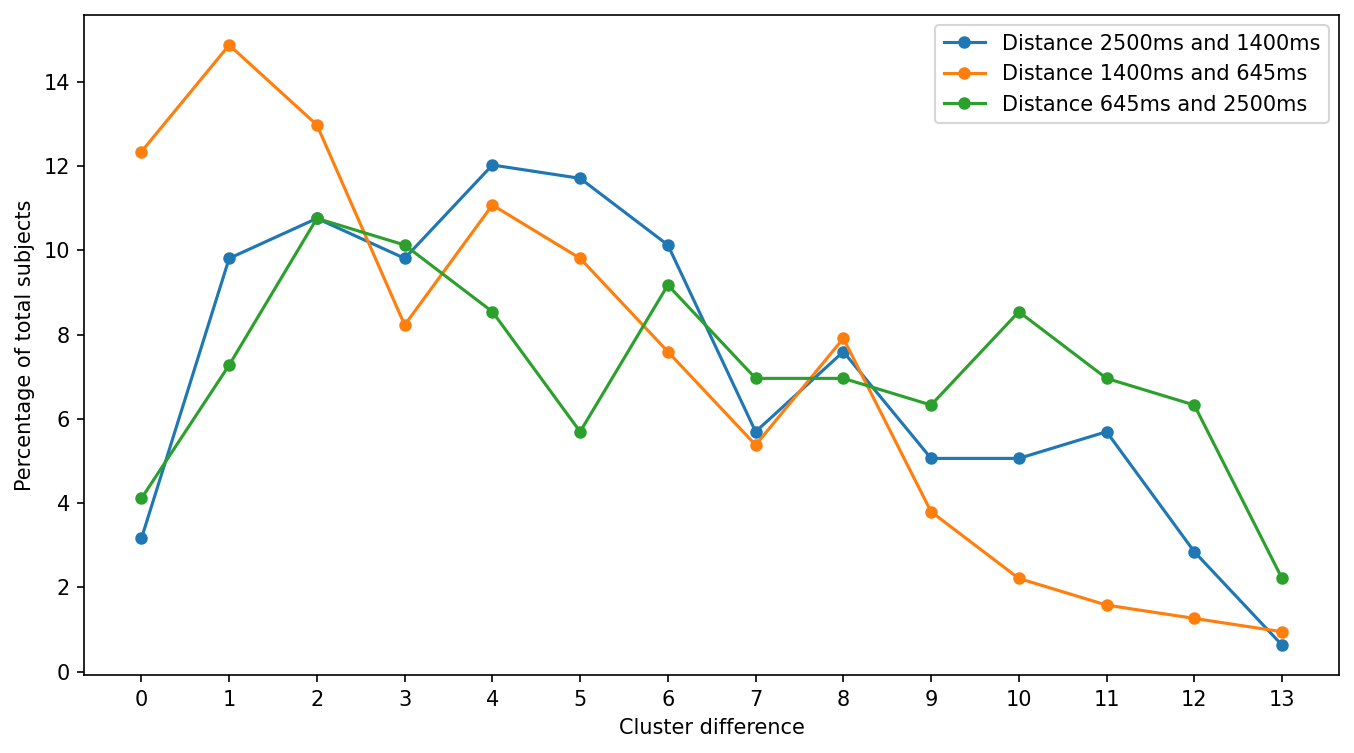
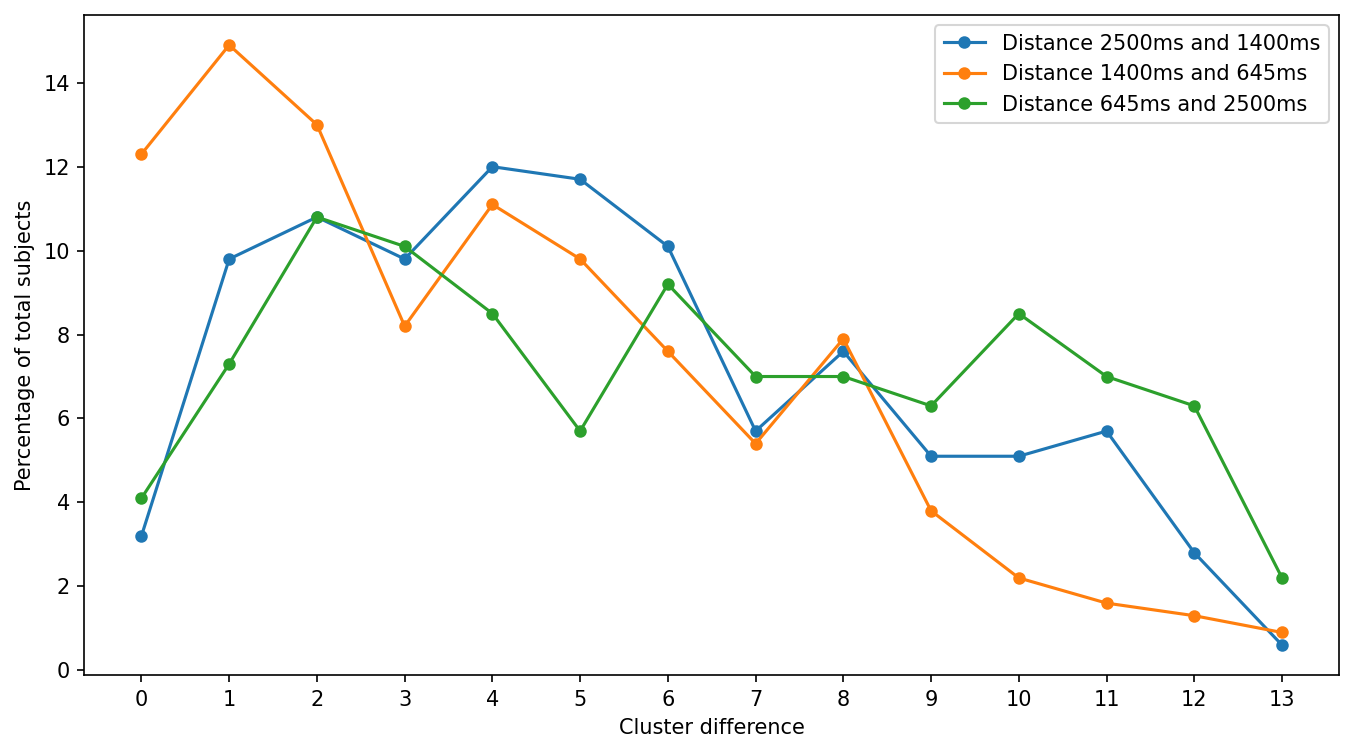
updated line charts to show one digit after decimal point

diff --git a/graph_generation.py b/graph_generation.py
@@ -76,12 +76,17 @@ def draw_barcode_only(data):
     print(f"Chart exported to: {output_filename}")
 
 
+def round_values(datasets, decimal_point=1):
+    return [[round(i, decimal_point) for i in ar] for ar in datasets]
+
+
 def draw_line_chart(datasets, dataset_titles,
                     x_label=None,
                     y_label=None,
                     title=None, figure_path=None, limit_y=None,
                     show_text_label=True,
                     log_scale=False):
+    datasets = round_values(datasets)
     fig, ax = plt.subplots(figsize=(8, 4))
     x = list(range(len(datasets[0])))
     for i in range(len(datasets)):
@@ -115,27 +120,32 @@ def draw_line_chart(datasets, dataset_titles,
 
 def show_pairwise_2500_1400():
     distance_2500_1400 = [
-        54.43, 14.873, 5.696, 5.38, 6.329, 2.532, 0.949, 2.532, 1.899, 1.582, 1.266, 0.316, 0.949, 1.266
+        54.43, 14.873, 5.696, 5.38, 6.329, 2.532, 0.949, 2.532, 1.899, 1.582,
+        1.266, 0.316, 0.949, 1.266
     ]
     distance_2500_1400_title = "Distance 2500ms and 1400ms (TDA)"
     distance_2500_1400_nontda = [
-        3.165, 9.81, 10.759, 9.81, 12.025, 11.709, 10.127, 5.696, 7.595, 5.063, 5.063, 5.696, 2.848, 0.633
+        3.165, 9.81, 10.759, 9.81, 12.025, 11.709, 10.127, 5.696, 7.595, 5.063,
+        5.063, 5.696, 2.848, 0.633
     ]
     distance_2500_1400_nontda_title = "Distance 2500ms and 1400ms (nonTDA)"
     x_label = "Cluster difference"
     y_label = "Percentage of total subjects"
     draw_line_chart([distance_2500_1400, distance_2500_1400_nontda],
-                    [distance_2500_1400_title, distance_2500_1400_nontda_title],
+                    [distance_2500_1400_title,
+                     distance_2500_1400_nontda_title],
                     x_label, y_label,
                     figure_path="drawing/pairwise_2500_1400.png")
 
 
 def show_pairwise_1400_645():
     distance_1400_645 = [
-        55.696, 19.304, 3.797, 3.481, 2.848, 2.848, 2.532, 1.899, 0.949, 2.215, 0.949, 1.582, 0.949, 0.949
+        55.696, 19.304, 3.797, 3.481, 2.848, 2.848, 2.532, 1.899, 0.949, 2.215,
+        0.949, 1.582, 0.949, 0.949
     ]
     distance_1400_645_title = "Distance 1400ms and 645ms (TDA)"
-    distance_1400_645_nontda = [12.342, 14.873, 12.975, 8.228, 11.076, 9.810, 7.595, 5.380, 7.911, 3.797, 2.215, 1.582,
+    distance_1400_645_nontda = [12.342, 14.873, 12.975, 8.228, 11.076, 9.810,
+                                7.595, 5.380, 7.911, 3.797, 2.215, 1.582,
                                 1.266, 0.949]
     distance_1400_645_nontda_title = "Distance 1400ms and 645ms (nonTDA)"
     x_label = "Cluster difference"
@@ -143,15 +153,18 @@ def show_pairwise_1400_645():
     draw_line_chart([distance_1400_645, distance_1400_645_nontda],
                     [distance_1400_645_title, distance_1400_645_nontda_title],
                     x_label, y_label,
-                    figure_path="drawing/pairwise_1400_645.png", log_scale=False)
+                    figure_path="drawing/pairwise_1400_645.png",
+                    log_scale=False)
 
 
 def show_pairwise_645_2500():
     distance_645_2500 = [
-        50.633, 20.570, 6.013, 2.532, 5.380, 3.165, 1.582, 2.848, 1.582, 0.949, 1.266, 0.949, 1.899, 0.633
+        50.633, 20.570, 6.013, 2.532, 5.380, 3.165, 1.582, 2.848, 1.582, 0.949,
+        1.266, 0.949, 1.899, 0.633
     ]
     distance_645_2500_title = "Distance 645ms and 2500ms (TDA)"
-    distance_645_2500_nontda = [4.114, 7.278, 10.759, 10.127, 8.544, 5.696, 9.177, 6.962, 6.962, 6.329, 8.544, 6.962,
+    distance_645_2500_nontda = [4.114, 7.278, 10.759, 10.127, 8.544, 5.696,
+                                9.177, 6.962, 6.962, 6.329, 8.544, 6.962,
                                 6.329, 2.215]
     distance_645_2500_nontda_title = "Distance 645ms and 2500ms (nonTDA)"
 
@@ -165,49 +178,63 @@ def show_pairwise_645_2500():
 
 def show_tda_pairwise():
     distance_2500_1400 = [
-        54.43, 14.873, 5.696, 5.38, 6.329, 2.532, 0.949, 2.532, 1.899, 1.582, 1.266, 0.316, 0.949, 1.266
+        54.43, 14.873, 5.696, 5.38, 6.329, 2.532, 0.949, 2.532, 1.899, 1.582,
+        1.266, 0.316, 0.949, 1.266
     ]
     distance_2500_1400_title = "Distance 2500ms and 1400ms"
     distance_1400_645 = [
-        55.696, 19.304, 3.797, 3.481, 2.848, 2.848, 2.532, 1.899, 0.949, 2.215, 0.949, 1.582, 0.949, 0.949
+        55.696, 19.304, 3.797, 3.481, 2.848, 2.848, 2.532, 1.899, 0.949, 2.215,
+        0.949, 1.582, 0.949, 0.949
     ]
     distance_1400_645_title = "Distance 1400ms and 645ms"
     distance_645_2500 = [
-        50.633, 20.570, 6.013, 2.532, 5.380, 3.165, 1.582, 2.848, 1.582, 0.949, 1.266, 0.949, 1.899, 0.633
+        50.633, 20.570, 6.013, 2.532, 5.380, 3.165, 1.582, 2.848, 1.582, 0.949,
+        1.266, 0.949, 1.899, 0.633
     ]
     distance_645_2500_title = "Distance 645ms and 2500ms"
 
     x_label = "Cluster difference"
     y_label = "Percentage of total subjects"
     draw_line_chart([distance_2500_1400, distance_1400_645, distance_645_2500],
-                    [distance_2500_1400_title, distance_1400_645_title, distance_645_2500_title],
+                    [distance_2500_1400_title, distance_1400_645_title,
+                     distance_645_2500_title],
                     x_label, y_label,
-                    figure_path="drawing/tda_pairwise.png", show_text_label=False)
+                    figure_path="drawing/tda_pairwise.png",
+                    show_text_label=False)
 
 
 def show_nontda_pairwise():
     distance_2500_1400_nontda = [
-        3.165, 9.81, 10.759, 9.81, 12.025, 11.709, 10.127, 5.696, 7.595, 5.063, 5.063, 5.696, 2.848, 0.633
+        3.165, 9.81, 10.759, 9.81, 12.025, 11.709, 10.127, 5.696, 7.595, 5.063,
+        5.063, 5.696, 2.848, 0.633
     ]
     distance_2500_1400_nontda_title = "Distance 2500ms and 1400ms"
-    distance_1400_645_nontda = [12.342, 14.873, 12.975, 8.228, 11.076, 9.810, 7.595, 5.380, 7.911, 3.797, 2.215, 1.582,
+    distance_1400_645_nontda = [12.342, 14.873, 12.975, 8.228, 11.076, 9.810,
+                                7.595, 5.380, 7.911, 3.797, 2.215, 1.582,
                                 1.266, 0.949]
     distance_1400_645_nontda_title = "Distance 1400ms and 645ms"
-    distance_645_2500_nontda = [4.114, 7.278, 10.759, 10.127, 8.544, 5.696, 9.177, 6.962, 6.962, 6.329, 8.544, 6.962,
+    distance_645_2500_nontda = [4.114, 7.278, 10.759, 10.127, 8.544, 5.696,
+                                9.177, 6.962, 6.962, 6.329, 8.544, 6.962,
                                 6.329, 2.215]
     distance_645_2500_nontda_title = "Distance 645ms and 2500ms"
     x_label = "Cluster difference"
     y_label = "Percentage of total subjects"
-    draw_line_chart([distance_2500_1400_nontda, distance_1400_645_nontda, distance_645_2500_nontda],
-                    [distance_2500_1400_nontda_title, distance_1400_645_nontda_title, distance_645_2500_nontda_title],
+    draw_line_chart([distance_2500_1400_nontda, distance_1400_645_nontda,
+                     distance_645_2500_nontda],
+                    [distance_2500_1400_nontda_title,
+                     distance_1400_645_nontda_title,
+                     distance_645_2500_nontda_title],
                     x_label, y_label,
-                    figure_path="drawing/nontda_pairwise.png", show_text_label=False)
+                    figure_path="drawing/nontda_pairwise.png",
+                    show_text_label=False)
 
 
 def show_tda_nontda():
-    first_dataset = [37.34, 22.15, 5.7, 5.38, 6.96, 4.11, 2.53, 3.48, 2.53, 2.53, 1.9, 1.58, 1.9, 1.9]
+    first_dataset = [37.34, 22.15, 5.7, 5.38, 6.96, 4.11, 2.53, 3.48, 2.53,
+                     2.53, 1.9, 1.58, 1.9, 1.9]
     first_dataset_title = "TDA"
-    second_dataset = [.32, 1.27, 2.85, 4.75, 7.28, 11.08, 9.81, 8.86, 10.76, 10.13, 10.44, 10.13, 9.18, 3.16]
+    second_dataset = [.32, 1.27, 2.85, 4.75, 7.28, 11.08, 9.81, 8.86, 10.76,
+                      10.13, 10.44, 10.13, 9.18, 3.16]
     second_dataset_title = "nonTDA"
     x_label = "Cluster difference"
     y_label = "Percentage of total subjects"
@@ -244,8 +271,8 @@ if __name__ == "__main__":
     # gudhi.plot_persistence_barcode(diag)
     # plt.show()
 
-    # show_tda_nontda()
-    # show_nontda_pairwise()
-    # show_pairwise_2500_1400()
-    # show_pairwise_645_2500()
-    show_pairwise_1400_645()
+    show_tda_nontda()
+    show_nontda_pairwise()
+    show_pairwise_2500_1400()
+    show_pairwise_645_2500()
+    # show_pairwise_1400_645()
